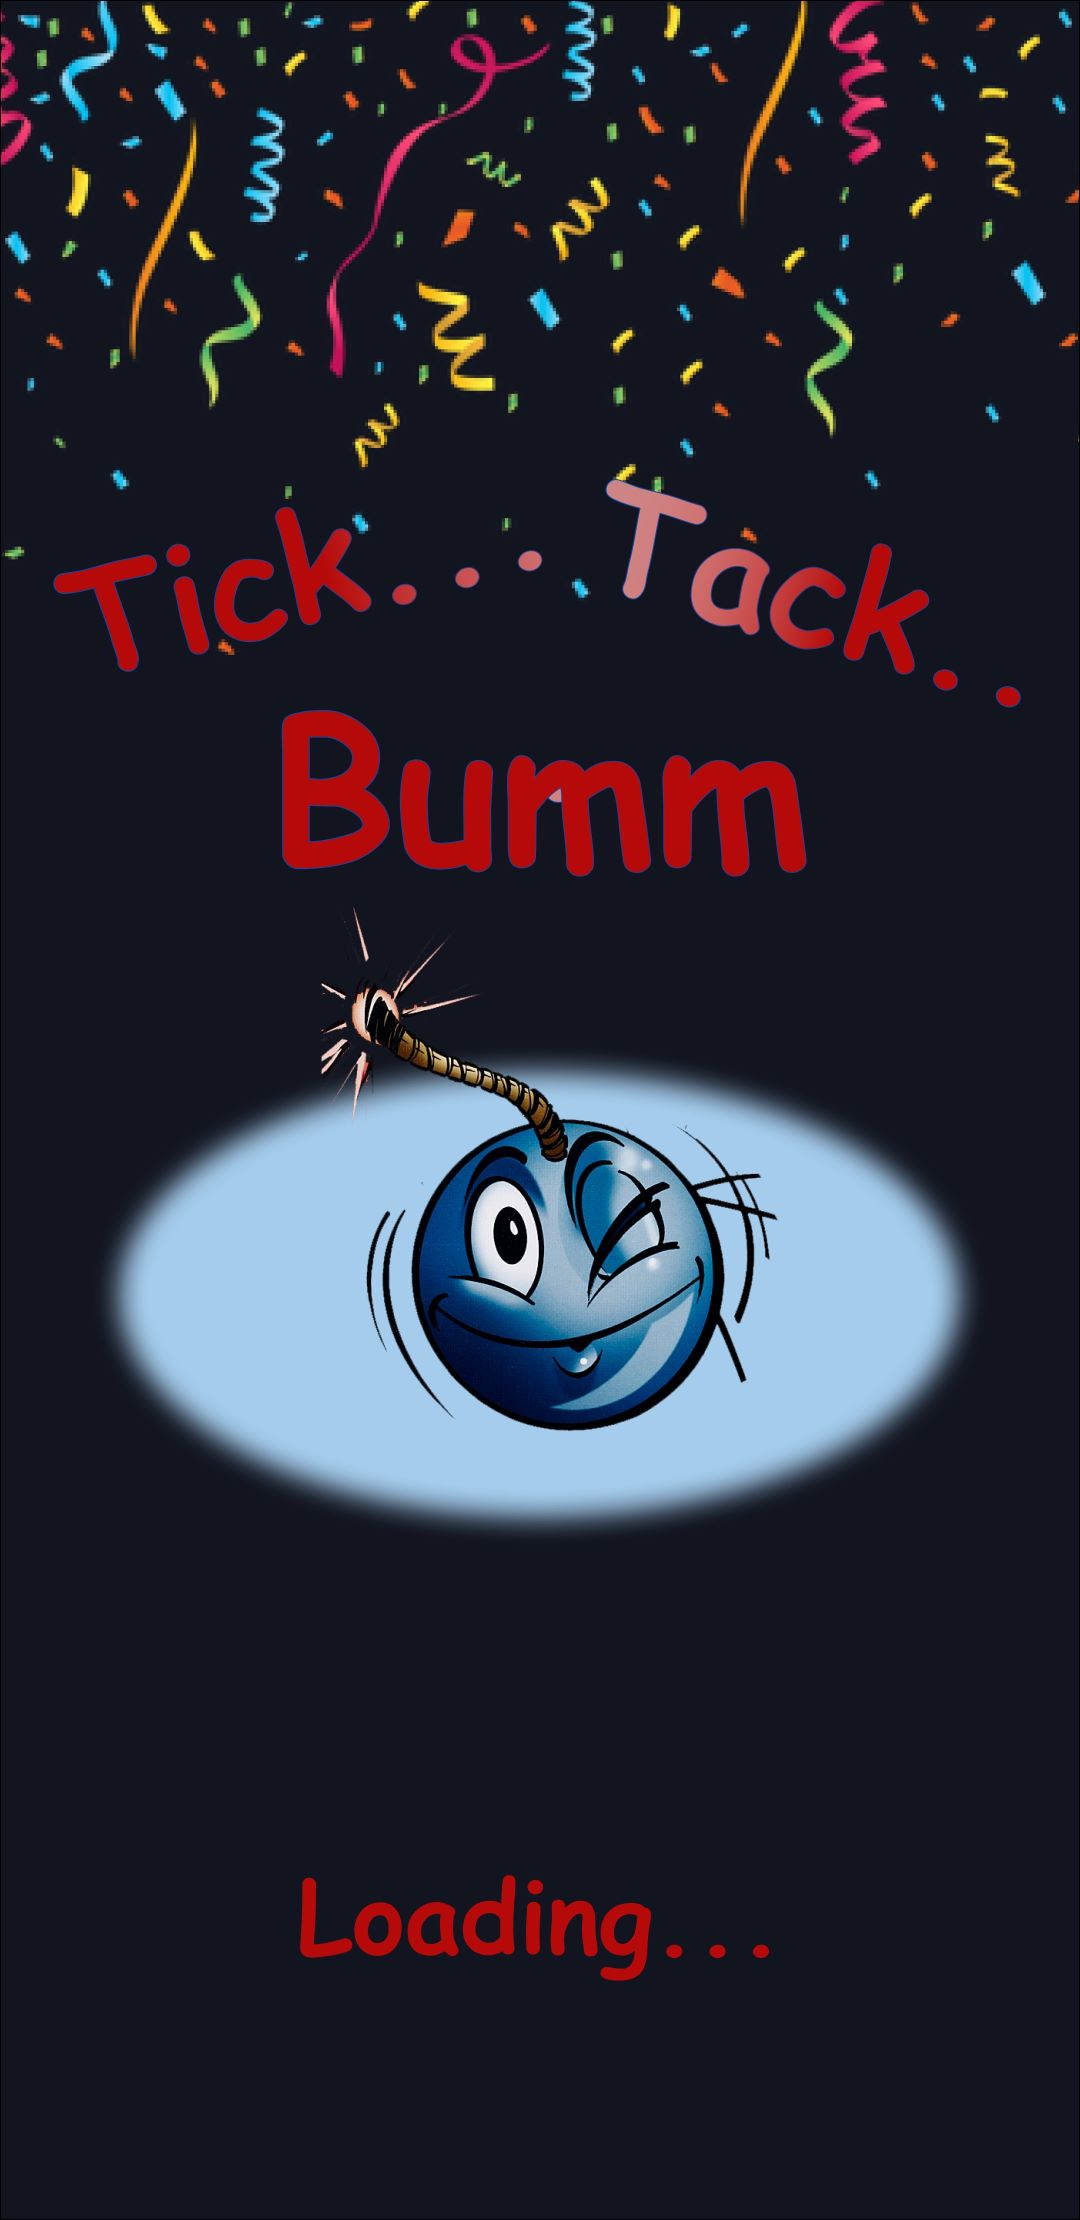
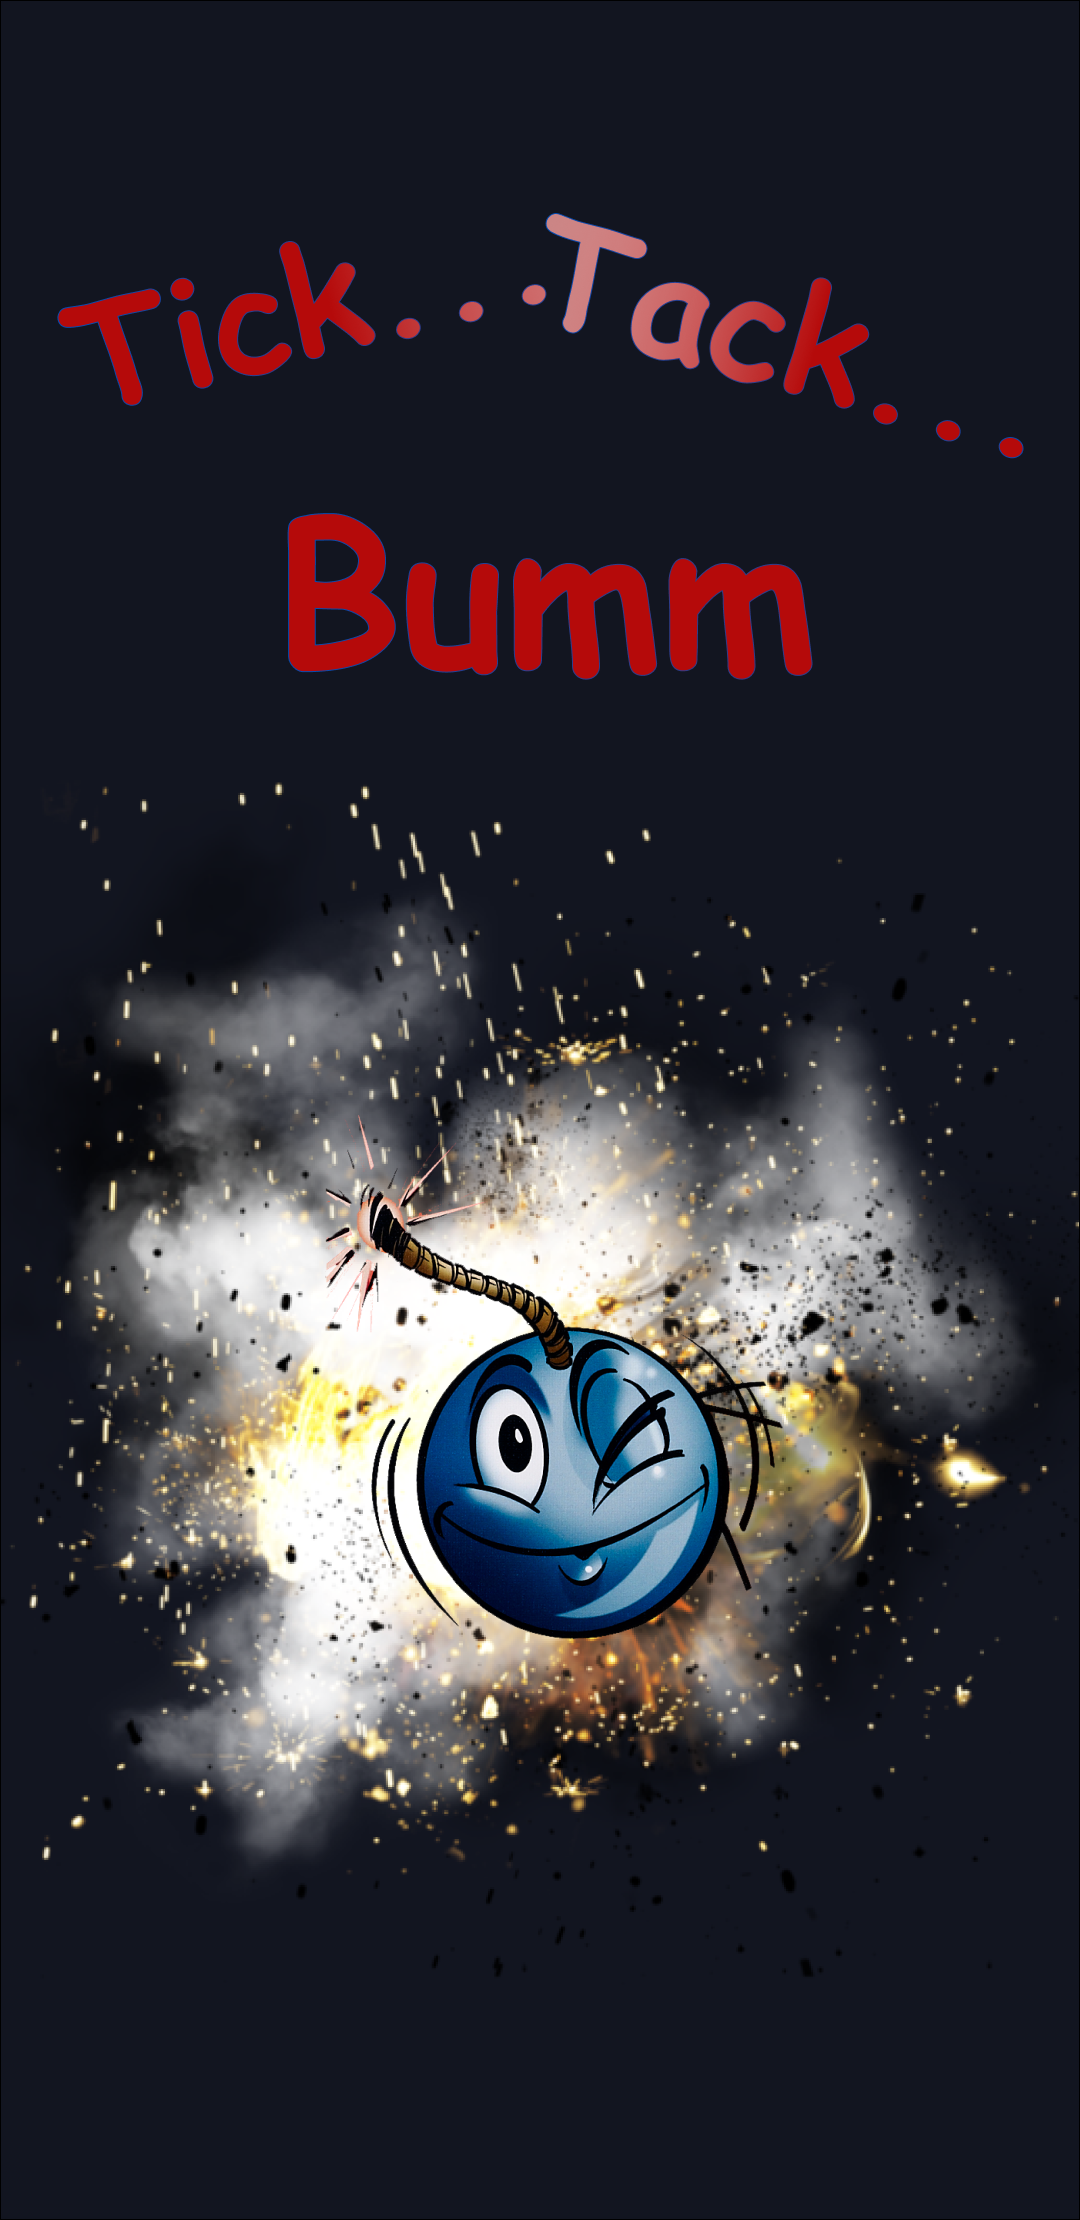
add new background to LoadingScreen and WaitingScreen and add it to assetmanager

diff --git a/core/src/main/java/se2/ticktackbumm/core/screens/WaitingScreen.java b/core/src/main/java/se2/ticktackbumm/core/screens/WaitingScreen.java
@@ -2,8 +2,10 @@ package se2.ticktackbumm.core.screens;
 
 import com.badlogic.gdx.Gdx;
 import com.badlogic.gdx.ScreenAdapter;
+import com.badlogic.gdx.assets.AssetManager;
 import com.badlogic.gdx.graphics.OrthographicCamera;
 import com.badlogic.gdx.graphics.Texture;
+import com.badlogic.gdx.graphics.g2d.Sprite;
 import com.badlogic.gdx.graphics.g2d.SpriteBatch;
 import com.badlogic.gdx.graphics.g2d.TextureRegion;
 import com.badlogic.gdx.scenes.scene2d.InputEvent;
@@ -34,7 +36,7 @@ public class WaitingScreen extends ScreenAdapter {
     private final float BUTTON_HEIGHT = 120f;
     private final float AVATAR_BUTTON_SIZE = 200f;
     private final float AVATAR_BUTTON_PADDING = 20f;
-    private final int AVATAR_TEXTURE_SIZE = 180;
+    private final int AVATAR_TEXTURE_SIZE = 200;
 
     // TickTackBumm resources
     private final TickTackBummGame game;
@@ -54,6 +56,8 @@ public class WaitingScreen extends ScreenAdapter {
     private final Label[] playerNameLabelsList;
     private final Table playerNamesTable;
 
+    private final Sprite sprite;
+
     private final Label playerNameInputLabel;
     private final TextField playerNameTextField;
     private final Label playerAvatarLabel;
@@ -66,17 +70,22 @@ public class WaitingScreen extends ScreenAdapter {
     private final ButtonGroup<ImageButton> avatarButtonGroup;
     private final Table avatarButtonTable;
 
+    private final AssetManager assetManager;
+
     private final TextButton readyButton;
     private final TextButton backButton;
     private final Table waitingButtonTable;
+
+    private final Texture background;
 
     public WaitingScreen() {
         game = TickTackBummGame.getTickTackBummGame();
         camera = TickTackBummGame.getGameCamera();
         gameData = game.getGameData();
         batch = game.getBatch();
+        assetManager = game.getManager();
 
-        stage = new Stage(new FitViewport(TickTackBummGame.WIDTH, TickTackBummGame.HEIGHT));
+        stage = new Stage(new FitViewport(TickTackBummGame.WIDTH+145f, TickTackBummGame.HEIGHT+145f));
         skin = game.getManager().get("ui/uiskin.json", Skin.class);
         Gdx.input.setInputProcessor(stage);
 
@@ -87,10 +96,10 @@ public class WaitingScreen extends ScreenAdapter {
         playerInLobbyLabel = new Label("Spieler in Lobby", skin);
         playerNamesTable = new Table();
         // TODO: testing only; should be empty
-        playerNameLabel0 = new Label("foobar", skin);
-        playerNameLabel1 = new Label("newton", skin);
-        playerNameLabel2 = new Label("seal8", skin);
-        playerNameLabel3 = new Label("bar42", skin);
+        playerNameLabel0 = new Label("", skin);
+        playerNameLabel1 = new Label("", skin);
+        playerNameLabel2 = new Label("", skin);
+        playerNameLabel3 = new Label("", skin);
         playerNameLabelsList = new Label[]{playerNameLabel0, playerNameLabel1, playerNameLabel2, playerNameLabel3};
 
         setupLobbyNamesLabels();
@@ -100,6 +109,8 @@ public class WaitingScreen extends ScreenAdapter {
         playerNameTextField = new TextField("Spieler" + game.getLocalPlayer().getPlayerId(), skin);
         playerAvatarLabel = new Label("AVATAR", skin);
         nameAndColorTable = new Table();
+
+        background = assetManager.get("waitingScreen/background.png", Texture.class);
 
         setupNameInput();
 
@@ -117,11 +128,15 @@ public class WaitingScreen extends ScreenAdapter {
                 new ButtonGroup<>(playerAvatarButton0, playerAvatarButton1, playerAvatarButton2, playerAvatarButton3);
 
         // bottom bar buttons
-        readyButton = new TextButton("BEREIT", skin);
-        backButton = new TextButton("ZURÜCK", skin);
+        readyButton = new TextButton("Bereit", skin);
+        backButton = new TextButton("Zurueck", skin);
         waitingButtonTable = new Table();
 
         setupBottomButtons();
+
+        sprite = new Sprite(background);
+        sprite.setRegionWidth(TickTackBummGame.WIDTH);
+        sprite.setRegionHeight(TickTackBummGame.HEIGHT);
 
         // add tables to stage
         stage.addActor(playerInLobbyLabel);
@@ -272,6 +287,10 @@ public class WaitingScreen extends ScreenAdapter {
         ScreenUtils.clear(.18f, .21f, .32f, 1);
 
         batch.setProjectionMatrix(camera.combined);
+
+        game.getBatch().begin();
+        sprite.draw(game.getBatch());
+        game.getBatch().end();
 
         batch.begin();
         stage.draw();

diff --git a/core/src/main/java/se2/ticktackbumm/core/screens/LoadingScreen.java b/core/src/main/java/se2/ticktackbumm/core/screens/LoadingScreen.java
@@ -58,7 +58,9 @@ public class LoadingScreen extends ScreenAdapter implements Screen {
 
         assetManager.load("bombeStart.png", Texture.class);
         assetManager.load("winnerScreen/podium.png", Texture.class);
+        assetManager.load("menuScreen/background.png", Texture.class);
         assetManager.load("winnerScreen/background.png", Texture.class);
+        assetManager.load("waitingScreen/background.png", Texture.class);
         assetManager.load("explosion.atlas", TextureAtlas.class);
         assetManager.load("flameLoop.atlas", TextureAtlas.class);
         assetManager.load("lamb.atlas", TextureAtlas.class);
@@ -152,7 +154,7 @@ public class LoadingScreen extends ScreenAdapter implements Screen {
         mShapeRenderer.rect(0f, 10f, progressBarWidth, 20f);
         mShapeRenderer.end();
 
-        if (progress == 10) { // TODO: testing only -> 10
+        if (progress == 100) {
             moveToMenuScreen();
         }
     }
